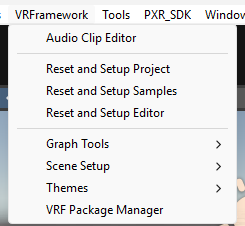
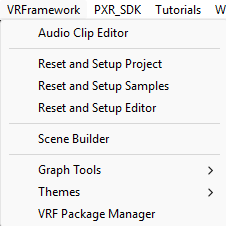
Published multiple files

Changed region(s): [[0.0, 0.0, 1.0, 1.0], [0.031, 0.0, 0.3717, 0.0929]]

diff --git a/src/site/notes/web/Getting Started/Scene Builder.md b/src/site/notes/web/Getting Started/Scene Builder.md
@@ -1,0 +1,22 @@
+---
+{"dg-publish":true,"dg-path":"Getting Started/Scene Builder.md","permalink":"/getting-started/scene-builder/","noteIcon":""}
+---
+
+The **Scene Builder** allows you to setup and customize your scene according to your needs. To open, go to: **VRFramework** → **Scene Builder**. 
+
+It looks like this (the scene modules might differ in your version):
+![SceneBuilderExample.png](/img/user/img/SceneBuilderExample.png)
+
+First of all, there is a big button at the top-right corner - **Basic Scene Setup**. This button setups your scene with basic structure and a **Game Director** instance. 
+>Warning: **Basic Scene Setup DELETES** your **entire scene** before setting up the structure. 
+
+
+Then there are **Scene Modules**. These are modular pieces that you can add to your scene. Each of the modules is described in the **[[web/Modules/Modules Overview\|Modules Overview]]** and their respective documents. 
+
+>Note: Every module might have **dependencies** to work correctly, which are automatically added to the scene when you add the module. There can only be **one instance** of every module in one scene.
+
+
+After the setup, the scene should look something like this: 
+![SceneExample.png](/img/user/img/SceneExample.png)
+
+Don't forget to setup your **additional modules** like Language Manager, Platform Manager, etc.

diff --git a/src/site/notes/web/Getting Started/Project Setup.md b/src/site/notes/web/Getting Started/Project Setup.md
@@ -20,7 +20,7 @@ This walkthrough takes you from a clean Unity project to a VR Framework enabled 
 1. Open Package Manager.
 2. In the left top corner, click the **+** button
 3. Select **Install Package from Git URL...**
-4. Paste this URL: https://gitlab.cie-group.cz/vr-framework/vrfpackagemanager.git
+4. Paste this URL: https://git.cie-group.cz/vr-framework/vrfpackagemanager.git
 5. Install.
 ---
 ## 3) Install VR Framework
@@ -28,9 +28,9 @@ This walkthrough takes you from a clean Unity project to a VR Framework enabled 
 Note: 
 >The Git URL will differ with each project. Each stream has a distinct version of the package, here are the URLs for them:
 > 
->**VR Training**: https://gitlab.cie-group.cz/vr-framework/vr-framework-3-0-training.git
+>**VR Training**: https://git.cie-group.cz/vr-framework/vr-framework-3-0-training.git
 >**VR School**: Not created yet.
->**VR Medical**: https://gitlab.cie-group.cz/vr-framework/vr-framework-3-0-medical.git
+>**VR Medical**: https://git.cie-group.cz/vr-framework/vr-framework-3-0-medical.git
 >
 >The choice depends on the stream under which does the project belong. There might also be projects that require a specific setup of the VRF - in that case, you should be provided with a specific URL. 
 

diff --git a/src/site/notes/web/Modules/Platform.md b/src/site/notes/web/Modules/Platform.md
@@ -56,4 +56,4 @@ To display the **predefined Internal Parameters** (**Language** and **Max Game T
 There is also a script called **Stream Manager** which ensures the user of the platform can see what the user in VR sees in the app. 
 ![StreamManagerExample.png](/img/user/img/StreamManagerExample.png)
 
-If you followed the [[web/Getting Started/Scene Setup\|Scene Setup]], the script is already set up in the scene under the **Game Director** object. It takes the image of **Main Camera** and sends it to the platform. The default settings are just fine, higher quality drains the performance significantly.
+If you followed the [[web/Getting Started/Scene Builder\|Scene Builder]], the script is already set up in the scene under the **Game Director** object. It takes the image of **Main Camera** and sends it to the platform. The default settings are just fine, higher quality drains the performance significantly.

diff --git a/src/site/notes/web/Modules/Interaction.md b/src/site/notes/web/Modules/Interaction.md
@@ -9,7 +9,7 @@
 Interaction module ensures a gateway between the user and the app. It allows you to create interactive and seamless experiences while being easy to set up and use. 
 
 
-The automatic [[web/Getting Started/Scene Setup\|Scene Setup]] ensures correct settings for the **Interaction** module, so you don't need to do anything yourself. 
+The automatic [[web/Getting Started/Scene Builder\|Scene Builder]] ensures correct settings for the **Interaction** module, so you don't need to do anything yourself. 
 
 
 Important note about the new **Interaction 3.0** is that now it has two sets of hands - one that correspond to the headset **tracking** and one that serve as the actual **visual** of the hands for the user.

diff --git a/src/site/notes/web/2Issue Tracker.md b/src/site/notes/web/2Issue Tracker.md
@@ -2,6 +2,6 @@
 {"dg-publish":true,"dg-path":"2Issue Tracker.md","permalink":"/2-issue-tracker/","title":"Issue Tracker","pinned":true,"noteIcon":"3"}
 ---
 
-To create a new issue, head to: [Issue Reporting](https://gitlab.cie-group.cz/vr-framework/vrframework3.0/-/issues/new?issuable_template=default_issue)
+To create a new issue, head to: [Issue Reporting](https://git.cie-group.cz/vr-framework/vrframework3.0/-/issues/new?issuable_template=default_issue)
 If it is regarding **VR Training**/**VR School** -> put **Michal Kulhánek** as an assignee, **VR Medical** goes to **Jakub Čekan** as an assignee.
 

diff --git a/src/site/notes/web/3Planned Features Status.md b/src/site/notes/web/3Planned Features Status.md
@@ -5,10 +5,8 @@
 
 ## Tasks
 
-- [ ] Scene Modules #threepointone
 - [ ] FAQ in the documentation
 - [ ] API Reference documentation
-- [ ] Better logging system #threepointone
 
 
 ## In Progress
@@ -18,6 +16,8 @@
 ## Complete
 
 **Complete**
+- [x] Better logging system #threepointone
+- [x] Scene Modules #threepointone
 
 
 
